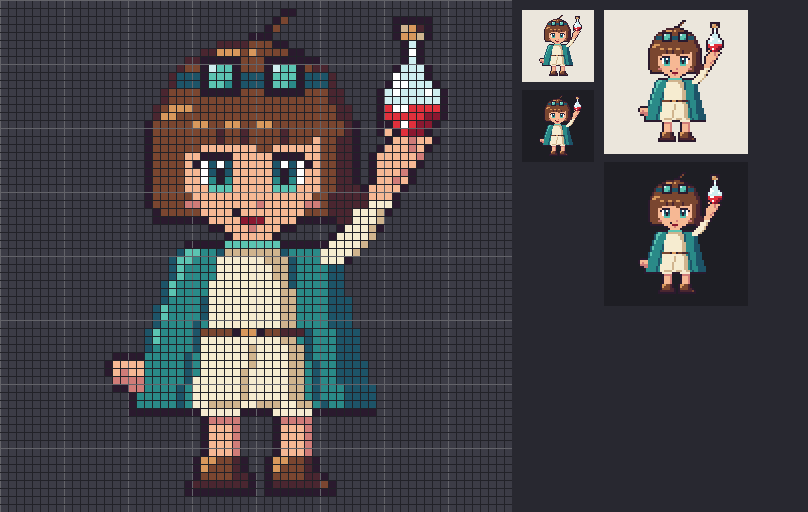
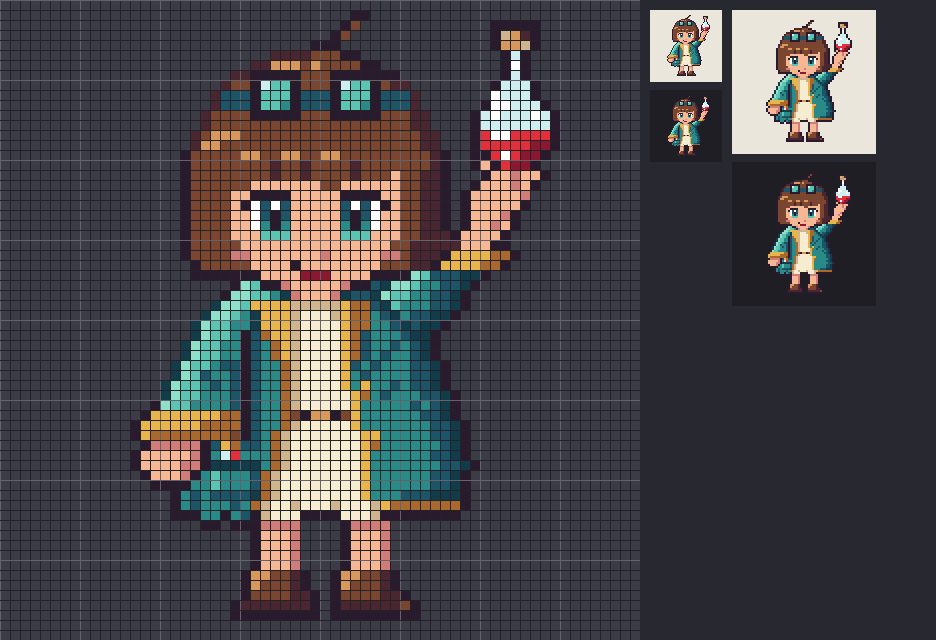
Chibi 64: rework the coat with volume (lapels, lining, sleeves, cuffs, folds)
Coat redrawn through the object pipeline: intention, construction,
silhouette, then outline/flats/shading/folds/details. Adds ochre lining
and cuffs, a separated left sleeve, overhang shadows, tension and
hanging folds, buttons, a pocket and a test tube.

Claude-Session: https://claude.ai/code/session_01499zPYjaCyxWz6oZrfTvjy

diff --git a/pixel_art/chibi/trace.py b/pixel_art/chibi/trace.py
@@ -1,6 +1,6 @@
 """Places primitives DECIDED BY HAND onto a character grid (decides nothing).
 usage: python3 trace.py in.txt|NEW:WxH out.txt cmds.txt
-cmds: px C x y | hline C x1 x2 y | vline C x y1 y2 | rect C x1 y1 x2 y2 | frame C x1 y1 x2 y2
+cmds: px C x y | line C x1 y1 x2 y2 | hline C x1 x2 y | vline C x y1 y2 | rect C x1 y1 x2 y2 | frame C x1 y1 x2 y2
       disc C cx cy r | ring C cx cy r | rows C y x1 x2 [y x1 x2 ...] (explicit spans) | rep A B x1 y1 x2 y2 (replace A->B in the zone)"""
 import sys
 src,out,cmdf=sys.argv[1:4]
@@ -23,6 +23,9 @@ for line in open(cmdf):
     op,C,a=p[0],p[1],list(map(float,p[2:]))
     a=[int(v) if v==int(v) else v for v in a]
     if op=='px': put(C,a[0],a[1])
+    elif op=='line':
+        x1,y1,x2,y2=a; n=max(abs(x2-x1),abs(y2-y1)) or 1
+        for k in range(n+1): put(C,round(x1+(x2-x1)*k/n),round(y1+(y2-y1)*k/n))
     elif op=='hline': [put(C,x,a[2]) for x in range(a[0],a[1]+1)]
     elif op=='vline': [put(C,a[0],y) for y in range(a[1],a[2]+1)]
     elif op=='rect': [put(C,x,y) for y in range(a[1],a[3]+1) for x in range(a[0],a[2]+1)]

diff --git a/pixel_art/chibi/vet64_00_intention.md b/pixel_art/chibi/vet64_00_intention.md
@@ -1,0 +1,18 @@
+# Manteau de Pip (64×64) : intention (B0 appliqué à un vêtement)
+
+- **Quoi :** le manteau d'apprentie alchimiste. Il est en **drap de laine épais** (il tombe lourd et ne
+  brille pas), ouvert devant sur la tunique crème et doublé d'**ocre**.
+- **Ce qu'il raconte :** « elle travaille au labo ». On le dit avec une poche où dépasse une éprouvette
+  et des revers et poignets retournés qui montrent la doublure.
+- **Lumière :** en haut à gauche. Le pan gauche et la manche gauche sont éclairés, le pan droit est à l'ombre.
+- **Matière (8b, Tissu) :** ombres douces, **aucun reflet spéculaire**. Les plis partent des points de tension.
+- **Rampe :** sarcelle sur 5 tons, `e` #8ee0c8 (haut-lumière) › `t` › `u` (base) › `v` › `w` #133c4a
+  (occlusion et coutures). Doublure sur 2 tons : `a` #e8b44c et `b` #a8682e.
+- **Accent :** le rouge de la potion reste le seul rouge fort. L'éprouvette en reprend 2 px : c'est un écho,
+  pas un second accent.
+- **Hiérarchie (C5) :**
+  - primaire : la masse du manteau ;
+  - secondaire : les manches, le col et les revers, les poignets ;
+  - tertiaire : la poche et l'éprouvette.
+- **Ce qui manquait à la v1 :** un trapèze plat sur 3 tons, sans col, sans manches, sans épaisseur,
+  sans plis de tension, avec un ourlet droit.
